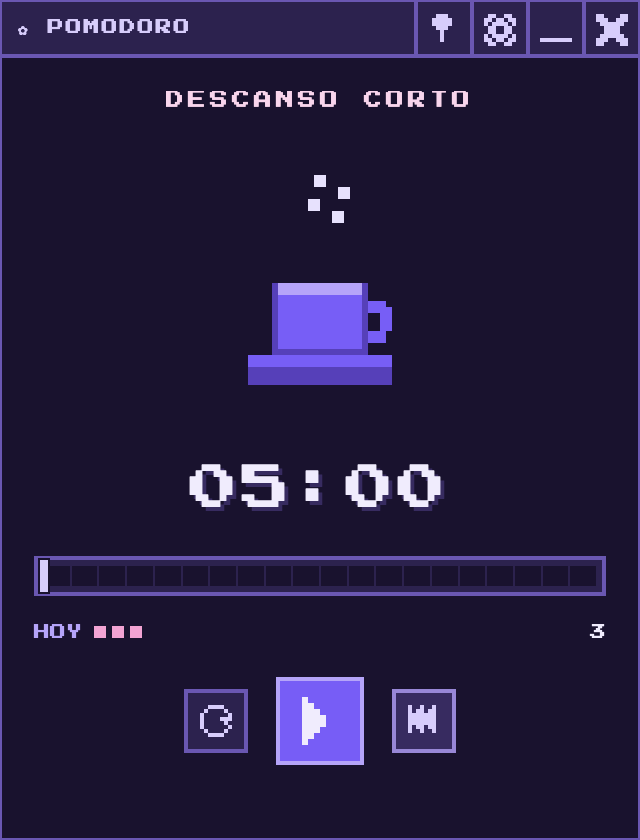
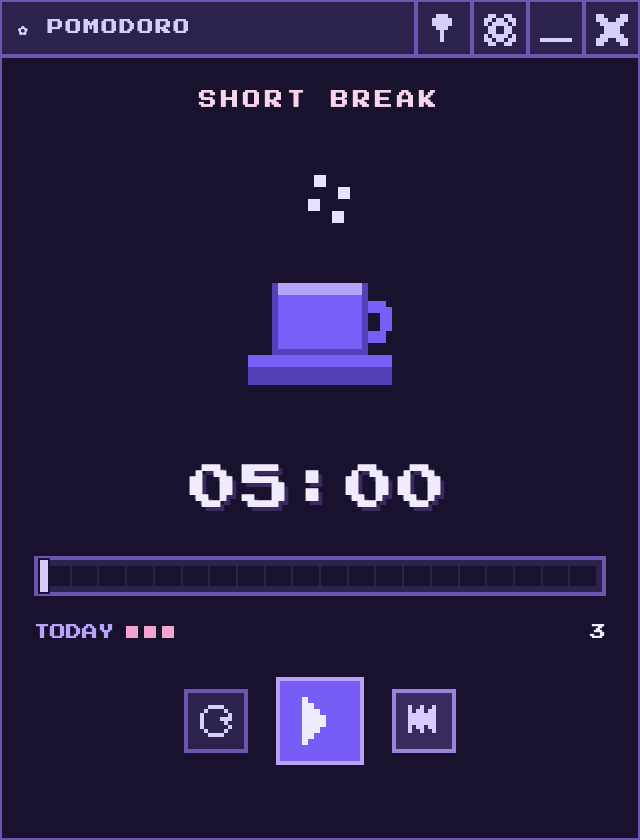
Actualiza README/SECURITY: Windows, UI bilingüe y capturas en inglés

Changed region(s): [[0.25, 0.0929, 0.75, 0.1238], [0.0312, 0.7429, 0.2812, 0.7738]]

diff --git a/README.md b/README.md
@@ -2,14 +2,16 @@
 
 [![Download latest release](https://img.shields.io/github/v/release/malenitaa/pomodoro?label=download&color=6b46c1)](https://github.com/malenitaa/pomodoro/releases/latest)
 [![License: MIT](https://img.shields.io/badge/license-MIT-blue.svg)](./LICENSE)
-[![macOS](https://img.shields.io/badge/platform-macOS-lightgrey)](#)
+[![Platform](https://img.shields.io/badge/platform-macOS%20%7C%20Windows-lightgrey)](#)
 [![Network: none](https://img.shields.io/badge/network-none-brightgreen)](./SECURITY.md)
 
-**Pixel Pomodoro** is a free Pomodoro timer for Mac with a pixel-art
-look (a melting candle and a steaming teacup). It's a native **macOS**
-desktop app: it runs on your computer, doesn't need the internet,
-doesn't ask for accounts or personal data, and sends absolutely nothing
-to any server — everything it stores stays on your own machine.
+**Pixel Pomodoro** is a free Pomodoro timer for Mac and Windows with a
+pixel-art look (a melting candle and a steaming teacup). It runs on your
+computer, doesn't need the internet, doesn't ask for accounts or personal
+data, and sends absolutely nothing to any server — everything it stores
+stays on your own machine. The interface is available in **English and
+Spanish** (it follows your system language, and you can override it in
+Settings).
 
 <p align="center">
   <img src="docs/screenshot-focus.png" alt="Pixel Pomodoro during a focus block: a pixel-art candle melting as time passes" width="320" />
@@ -18,20 +20,31 @@ to any server — everything it stores stays on your own machine.
 
 ## What do I need to install it?
 
-- A **macOS** computer.
+- A **macOS** or **Windows** computer.
 
 That's it. No account needed, no Node install, nothing technical.
 
 ## Installation, step by step
 
+**On a Mac:**
+
 1. Go to [Releases](https://github.com/malenitaa/pomodoro/releases) and download the `.dmg` for your Mac (`arm64` if it's a Mac with an Apple M1/M2/M3/M4 chip, or the other `.dmg` if it's an older Intel Mac — if you're not sure, try `arm64` first).
 2. Open the downloaded `.dmg` and drag **"Pixel Pomodoro"** to your Applications folder.
 
+**On Windows:**
+
+1. Go to [Releases](https://github.com/malenitaa/pomodoro/releases) and download `Pixel Pomodoro Setup x.x.x.exe`.
+2. Run it and follow the installer (you can choose the install folder).
+
 ## The first time you open it
 
-macOS will show a warning like *"cannot verify the developer"* or *"Apple could not verify this app is free of malware."* This **doesn't mean anything is wrong** — it happens with any app not distributed through the App Store or without paying Apple for a developer signature, and this project is free and open source, so it doesn't have that signature.
+This project is free and open source, so it isn't signed with a paid
+developer certificate — and both macOS and Windows warn about that. **It
+doesn't mean anything is wrong**, and the fix is one extra click. Never
+disable your system's security protections for this (nothing here needs
+that — if something asks you to, be suspicious).
 
-To open it the first time:
+**On a Mac**, you'll see *"cannot verify the developer"* or *"Apple could not verify this app is free of malware"*:
 
 1. **Right-click** (or Control + click) on "Pixel Pomodoro.app".
 2. Choose **Open**.
@@ -39,13 +52,20 @@ To open it the first time:
 
 After that first time, the app opens normally with a double-click, like any other.
 
+**On Windows**, SmartScreen may show *"Windows protected your PC"*:
+
+1. Click **More info**.
+2. Click **Run anyway**.
+
+That only happens for the installer, not every time you open the app.
+
 ## How to use it
 
 - **Start / pause**: the big button in the middle (▶ / ⏸).
 - **Restart block**: the left button (↺) — resets the current block to its full duration.
 - **Skip**: the right button (⏭) — moves to the next block without waiting for it to finish.
 - **Always on top**: the pin icon (📌) at the top — keeps the window above others.
-- **Settings**: the gear icon (⚙) — change how long focus/break blocks last, how many pomodoros before a long break, and the sound volume (or mute it).
+- **Settings**: the gear icon (⚙) — change how long focus/break blocks last, how many pomodoros before a long break, the sound volume (or mute it), and the language (AUTO follows your system, or force EN / ES).
 
 While you're in a focus block, you'll see a **little candle** melt down as time passes. When the block ends, you'll hear a soft sound and get a system notification — and during breaks, the candle goes out and a **steaming cup** appears in its place.
 
@@ -59,8 +79,8 @@ No. It works 100% offline — you can even turn off wifi and nothing changes.
 **Does it send my data anywhere?**
 No. The app couldn't even if it wanted to: any outgoing network connection is blocked at a technical level. Everything it stores (your configured durations and how many pomodoros you did) lives in a single file on your computer, in your user's application data folder — no one else can see it or access it remotely. The details, verifiable in the code, are in [SECURITY.md](SECURITY.md).
 
-**Is the interface in English?**
-Not yet — the app's interface is currently Spanish-only. It's simple enough (a timer, three buttons, and a settings panel) that it's usable without knowing Spanish, but fair warning.
+**Is the interface in English or Spanish?**
+Both. By default it follows your system language (Spanish systems get Spanish, everything else gets English), and you can force either language from Settings.
 
 **Do I need to create an account?**
 No, there are no accounts, no login, nothing like that.
@@ -88,15 +108,16 @@ Close the app and reopen it. If the problem persists, check if there's a newer v
 
 ## For developers
 
-Requirements: macOS, [Node.js](https://nodejs.org/) 18+.
+Requirements: [Node.js](https://nodejs.org/) 18+.
 
 ```bash
 git clone https://github.com/malenitaa/pomodoro.git
 cd pomodoro
 npm install
-npm run dev    # dev mode, with hot reload
-npm test       # runs the test suite
-npm run build  # builds the .dmg into release/
+npm run dev        # dev mode, with hot reload
+npm test           # runs the test suite
+npm run build      # builds the macOS .dmg into release/
+npm run build:win  # builds the Windows installer into release/
 ```
 
 ## Enjoyed it?

diff --git a/SECURITY.md b/SECURITY.md
@@ -8,7 +8,7 @@ policy template.
 
 | Path | Access | Written by |
 |------|--------|-----------|
-| `~/Library/Application Support/Pixel Pomodoro/pomodoro-data.json` | read + write | The app's main process only |
+| `~/Library/Application Support/Pixel Pomodoro/pomodoro-data.json` (macOS) or `%APPDATA%\Pixel Pomodoro\pomodoro-data.json` (Windows) | read + write | The app's main process only |
 | Standard Chromium/Electron runtime files in that same folder (caches, GPU state, etc.) | read + write | The Electron framework itself, not app code |
 
 That is the complete list. `pomodoro-data.json` contains your configured
@@ -69,7 +69,11 @@ This app accepts almost no input, and everything it does accept is validated:
 
 - The **Intel (x64)** `.dmg` is produced by the same CI as the Apple Silicon
   one, but the app is developed and manually tested on Apple Silicon.
-- Only **macOS** is supported. The code has no Windows/Linux ports.
+- The **Windows** installer is newer than the macOS one and gets less manual
+  testing (the app is developed on a Mac). Same code, same no-network
+  guarantees — but if something platform-specific breaks, it's more likely
+  there.
+- There is no **Linux** build.
 
 ## Reporting
 
